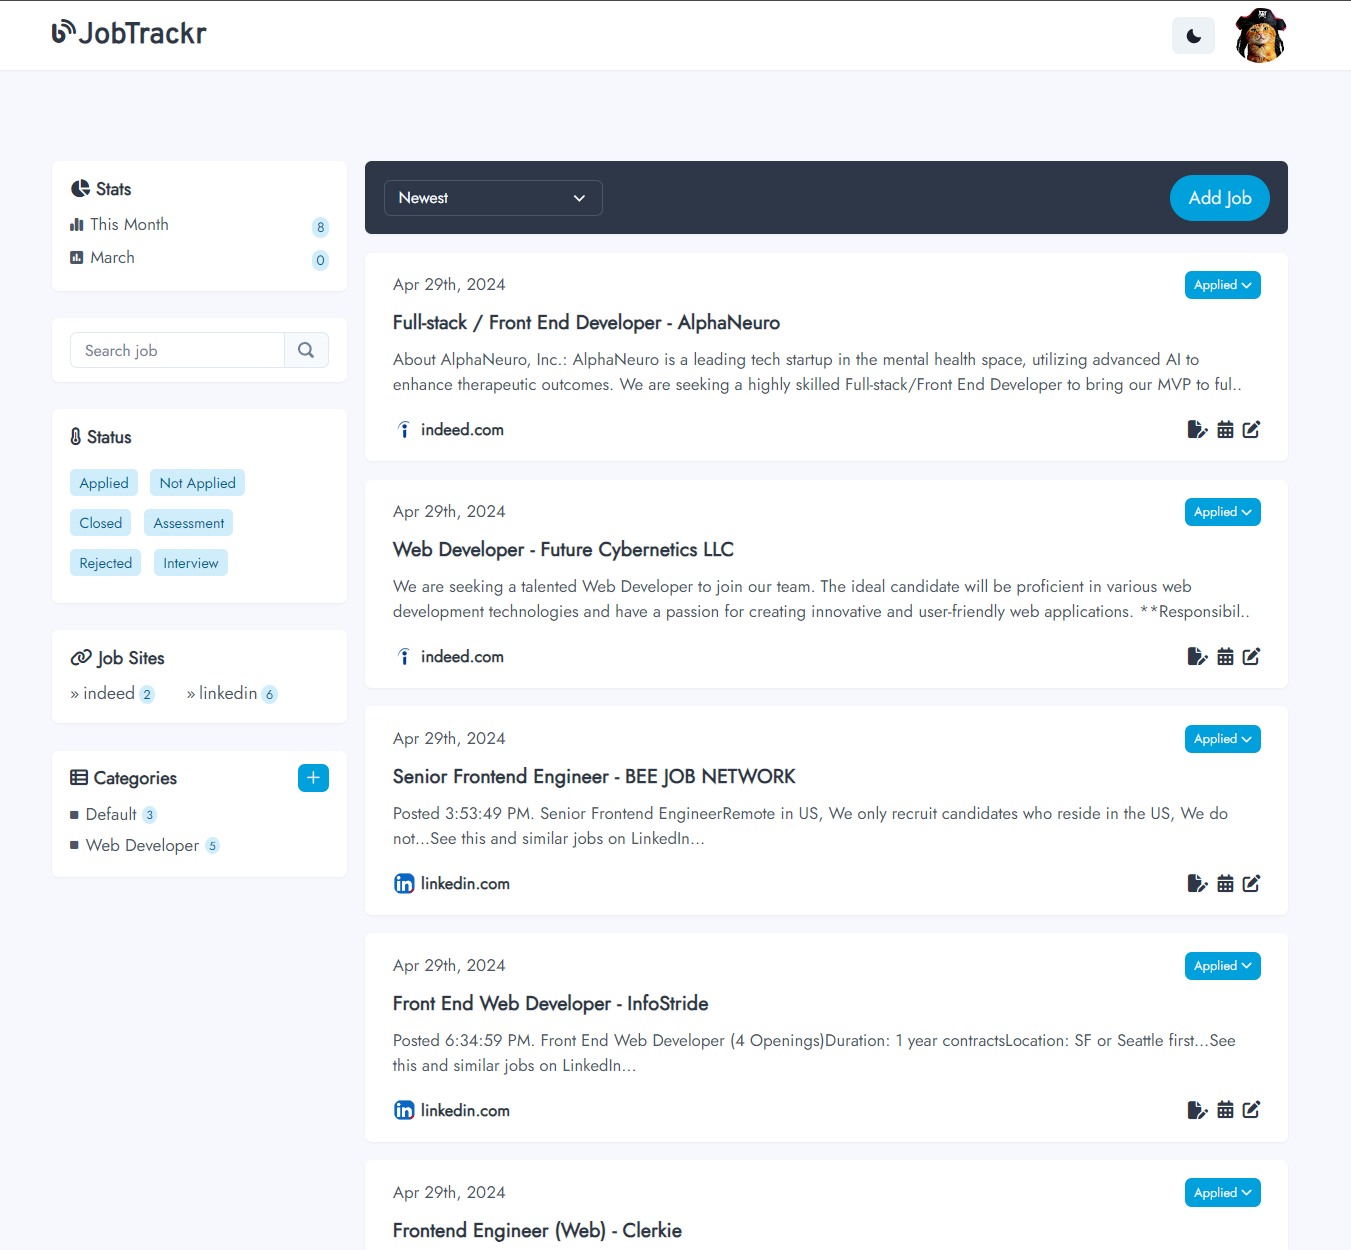
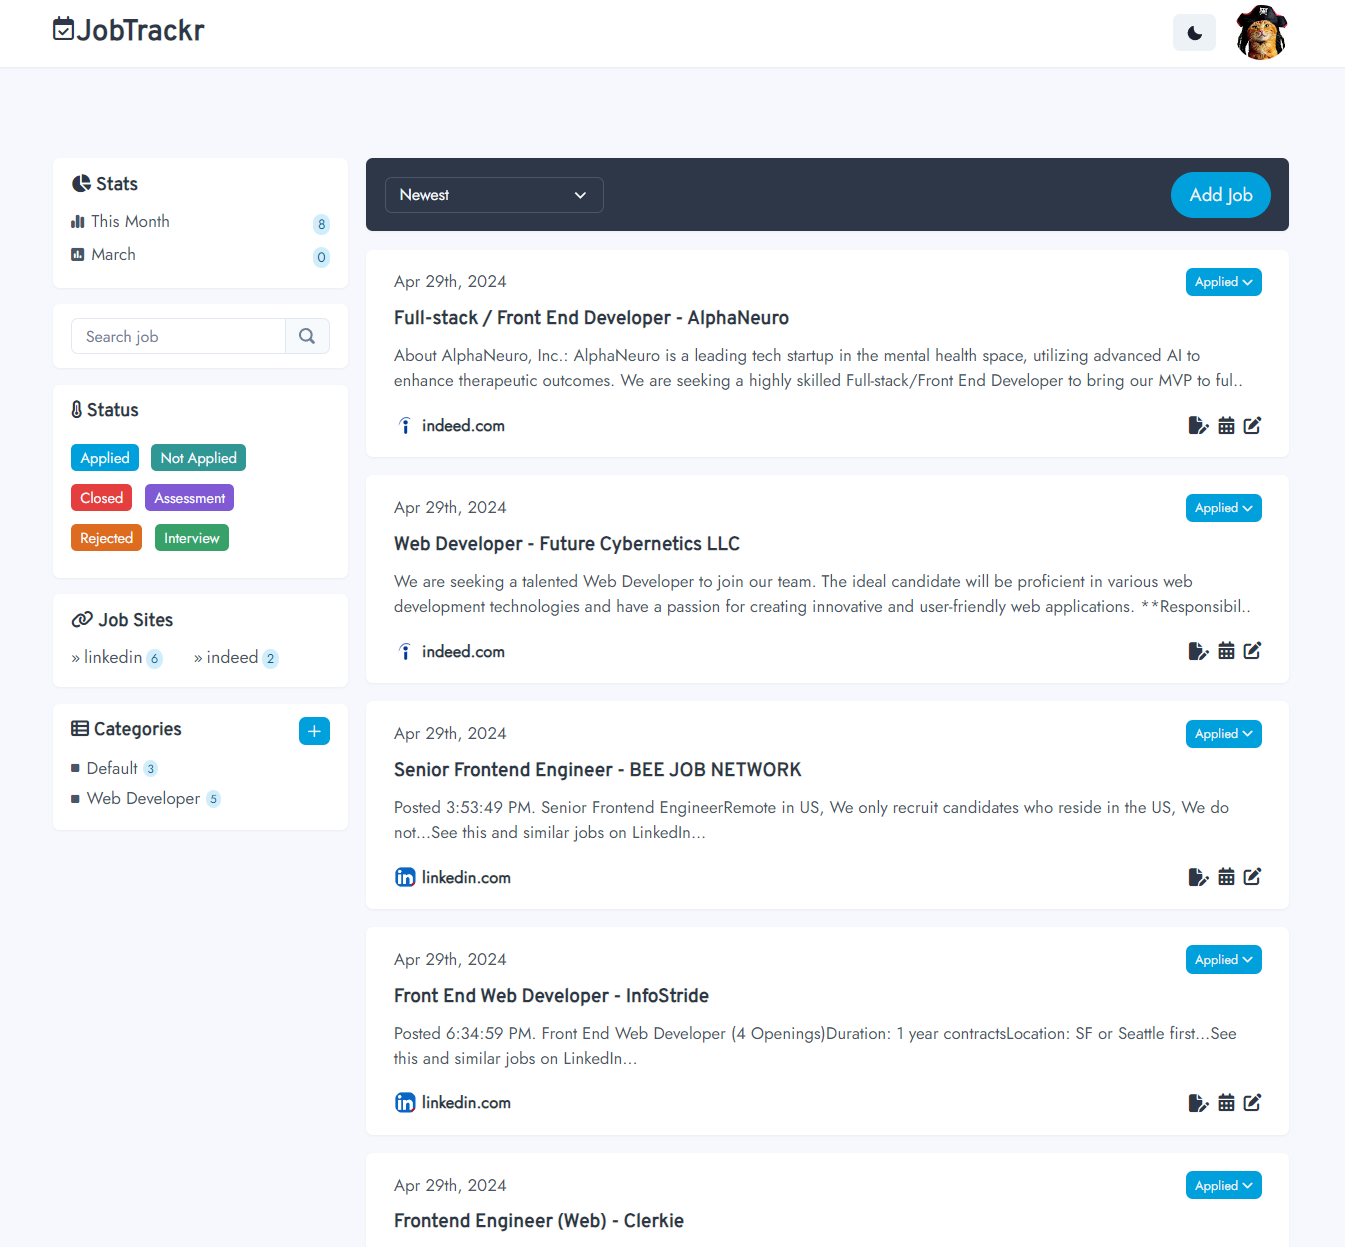
update landing page hero img

diff --git a/client/src/components/Status.tsx b/client/src/components/Status.tsx
@@ -46,10 +46,9 @@ const Status = ({ status, setStatus }: any) => {
                                 mb='0.7rem'
                                 fontSize='0.8rem'
                                 fontWeight='400'
+                                borderColor={colors[color]}
                                 bg={colors[color]}
-                                // bg={status === color ? colors[color] : '#cfedfb'}
                                 color={'gray.50'}
-                                // color={status === color ? 'gray.50' : 'linkedin.800'}
                                 _focus={{
                                     outline: 0,
                                     boxShadow: 0,
@@ -57,14 +56,6 @@ const Status = ({ status, setStatus }: any) => {
                                 _hover={{
                                     bg: colors_hover[color],
                                     color: 'gray.50',
-                                }}
-                                _dark={{
-                                    bg: status === color ? colors[color] : '#9bdaf329',
-                                    color: status === color ? 'gray.50' : 'linkedin.200',
-                                    _hover: {
-                                        bg: colors_hover[color],
-                                        color: 'gray.50',
-                                    },
                                 }}
                                 size='xs'
                                 textTransform='capitalize'
